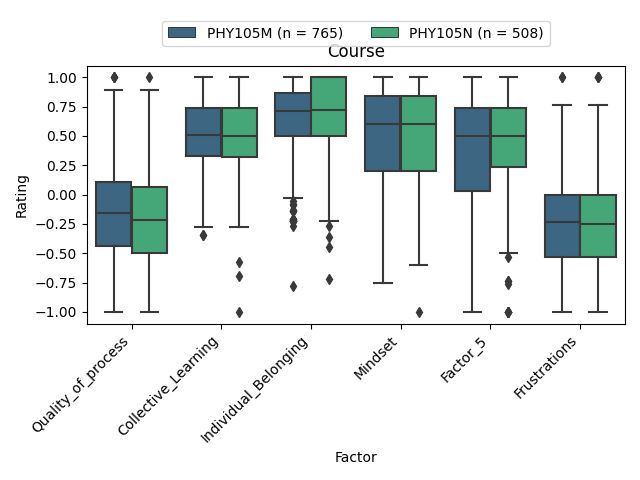
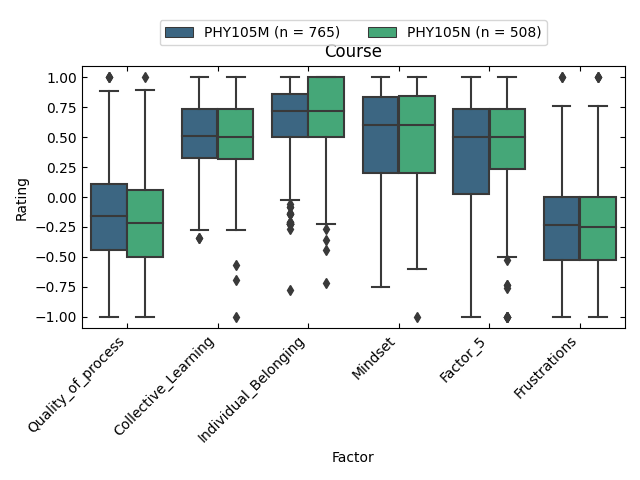
Some QoL changes

diff --git a/SAGE.py b/SAGE.py
@@ -32,7 +32,6 @@ def main():
     my_file = 'SAGEPHY105F22_January3,2023_07.15.csv'
 
     # READ IN DATA FROM SAGE QUALTRICS SURVEY BASED ON THE CSV COLUMN NAMES
-    headers = [*pd.read_csv(my_file, nrows=1)]
     ExcludedHeaders = ['Start Date', 'End Date', 'Response Type', 'IP Address', 'Progress', 'Duration (in seconds)',
     'Finished', 'Recorded Date', 'Response ID', 'Recipient Last Name', 'Recipient First Name',
     'Recipient Email', 'External Data Reference', 'Location Latitude', 'Location Longitude', 'Distribution Channel', 'User Language']
@@ -56,9 +55,9 @@ def main():
     # with warnings.catch_warnings(): # Included because a warning during factor analysis about using a different method of diagnolization is annoying
     #     warnings.simplefilter("ignore")
     #     EFA_alternate(df_norm) # Exploratory factor analysis on questions taken from SAGE ##CFA package doesn't converge, export files to R.
-    # with warnings.catch_warnings(): # Included because a warning during factor analysis about using a different method of diagnolization is annoying
-    #     warnings.simplefilter("ignore")
-    #     Factor_dependences(df_norm) # Performs linear regression and other comparisons for how the demographics affect the factors
+    with warnings.catch_warnings(): # Included because a warning during factor analysis about using a different method of diagnolization is annoying
+        warnings.simplefilter("ignore")
+        Factor_dependences(df_norm) # Performs linear regression and other comparisons for how the demographics affect the factors
 
 # ALLOWS THE USER TO TAB-AUTOCOMPLETE IN COMMANDLINE
 def complete(text, state):
@@ -189,17 +188,6 @@ def Data_statistics(df_norm):
     df_summary['SD+D'] = np.nan
     df_summary['N'] = np.nan
     df_summary['SA+A'] = np.nan
-    # for i in col_list:
-    #     s = df[i].value_counts(normalize=True).sort_index().rename_axis('unique_values').reset_index(name='counts')
-    #     df_summary.at[i,'SD+D'] = s[(s.unique_values.round(1) == 1) | (s.unique_values.round(1) == 2)].sum()['counts']
-    #     df_summary.at[i,'N'] = s[s.unique_values.round(1) == 3].sum()['counts']
-    #     df_summary.at[i,'SA+A'] = s[(s.unique_values.round(1) == 4) | (s.unique_values.round(1) == 5)].sum()['counts']
-
-    # for i in Phys_Int_Cols:
-    #     s = df[i].value_counts(normalize=True).sort_index().rename_axis('unique_values').reset_index(name='counts')
-    #     df_summary.at[i,'SD+D'] = s[(s.unique_values.round(1) == 1) | (s.unique_values.round(1) == 1.8)].sum()['counts']
-    #     df_summary.at[i,'N'] = s[(s.unique_values.round(1) == 2.6) | (s.unique_values.round(1) == 3.4)].sum()['counts']
-    #     df_summary.at[i,'SA+A'] = s[(s.unique_values.round(1) == 4.2) | (s.unique_values.round(1) == 5)].sum()['counts']
 
     for i in col_list:
         s = df[i].value_counts(normalize=True).sort_index().rename_axis('unique_values').reset_index(name='counts')
@@ -216,7 +204,6 @@ def Data_statistics(df_norm):
     df_summary.round(decimals = 4).to_csv('ExportedFiles/SAGE_Stats.csv', encoding = "utf-8", index=True)
 
     total_count = len(df_norm.index)
-    print('Total N:', total_count)
     intervention_count = df_norm.groupby(['Intervention'])['Intervention'].describe()['count']
     course_count = df_norm.groupby(['Course'])['Course'].describe()['count']
     gender_count = df_norm.groupby(['Gender'])['Gender'].describe()['count']
@@ -580,20 +567,21 @@ def Factor_dependences(df_norm):
     ##Condenses demographics
     # Gender -> Male, Female, Other
     df1.insert(df1.columns.get_loc('Gender'), 'Gender_C', 0)
-    df1['Gender_C'] = ['Male' if x == 'Male' else 'Female' if x == 'Female' else 'Prefer not to disclose' if x == 'Prefer not to disclose' else 'Other' for x in df['Gender']]
+    df1['Gender_C'] = ['Male' if x == 'Male' else 'Female' if x == 'Female' else 'Prefer not to disclose' if 'Prefer not' in str(x) else 'Other' for x in df['Gender']]
     df1.drop(columns=['Gender'], axis=1, inplace = True)
 
-    # Raceethnicity -> Wellrepresented (white, asian), underrepresented, both
+    # Raceethnicity -> Wellrepresented (white, asian), underrepresented
     df1.insert(df1.columns.get_loc('Raceethnicity'), 'Raceethnicity_C', 0)
     conditions = [(df1['Raceethnicity'] == 'Asian') | (df1['Raceethnicity'] == 'White') | (df1['Raceethnicity'] == 'Asian,White'),
-                (~df1['Raceethnicity'].str.contains('Asian')) | (~df1['Raceethnicity'].str.contains('White')) | (~df1['Raceethnicity'].str.contains('Prefer not')), (df1['Raceethnicity'].str.contains('Prefer not'))]
+                (~df1['Raceethnicity'].str.contains('Asian')) | (~df1['Raceethnicity'].str.contains('White')) | (~df1['Raceethnicity'].str.contains('Prefer not')),
+                (df1['Raceethnicity'].str.contains('Prefer not'))]
     choices = ['Wellrepresented','Underrepresented','Prefer not to disclose']
     df1['Raceethnicity_C'] = np.select(conditions, choices, default='Mixed')
     df1.drop(columns=['Raceethnicity'], axis=1, inplace = True)
 
     # Edcuation -> 1st gen, not 1st gen
     df1.insert(df1.columns.get_loc('Education'), 'Education_C', 0)
-    df1['Education_C'] = ['1stGen' if (x == 'Other') | (x == 'High school') | (x == 'Some college but no degree') | (x == "Associate's or technical degree") else 'Prefer not to answer' if x == 'Prefer not to answer' else 'Not1stGen' for x in df['Education']]
+    df1['Education_C'] = ['1stGen' if (x == 'Other') | (x == 'High school') | (x == 'Some college but no degree') | (x == "Associate's or technical degree") else 'Prefer not to answer' if 'Prefer not' in str(x) else 'Not1stGen' for x in df['Education']]
     df1.drop(columns=['Education'], axis=1, inplace = True)
 
     # Plot (box and whisker) averages for each factor by course
@@ -609,6 +597,7 @@ def Factor_dependences(df_norm):
     colors = cmap(np.linspace(0,1,4))
     palette = {course_list[0]: colors[1], course_list[1]: colors[2]}
     hue_order = [course_list[0],course_list[1]]
+    fig, ax = plt.subplots()
     g = sns.boxplot(data=df_bnw.melt(id_vars=['Course'], value_vars=fs.columns, var_name='Rating', value_name='Factor'), 
                     x='Rating', y='Factor', hue='Course', hue_order=hue_order, palette=palette)
     plt.title('Course')
@@ -618,6 +607,7 @@ def Factor_dependences(df_norm):
     L = plt.legend(loc='lower center', bbox_to_anchor=(0.5, 1.05), ncols=3, fancybox=True, shadow=False)
     for t, l in zip(L.get_texts(), course_count_list):
         t.set_text(l)
+    ax.tick_params(axis='both', direction='in', top=True, right=True)
     plt.tight_layout()
     save_fig(g,'factor_ratings_course')
     plt.clf()
@@ -635,6 +625,7 @@ def Factor_dependences(df_norm):
     colors = cmap(np.linspace(0,1,4))
     palette ={intervention_list[0]: colors[1], intervention_list[1]: colors[2], intervention_list[2]: colors[3]}
     hue_order = [intervention_list[0],intervention_list[1],intervention_list[2]]
+    fig, ax = plt.subplots()
     g = sns.boxplot(data=df_bnw.melt(id_vars=['Intervention'], value_vars=fs.columns, var_name='Rating', value_name='Factor'), 
                     x='Rating', y='Factor', hue='Intervention', hue_order=hue_order, palette=palette)
     plt.title('Intervention')
@@ -644,6 +635,7 @@ def Factor_dependences(df_norm):
     L = plt.legend(loc='lower center', bbox_to_anchor=(0.5, 1.05), ncols=2, fancybox=True, shadow=False)
     for t, l in zip(L.get_texts(), intervention_count_list):
         t.set_text(l)
+    ax.tick_params(axis='both', direction='in', top=True, right=True)
     plt.tight_layout()
     save_fig(g,'factor_ratings_intervention')
     plt.clf()
@@ -662,6 +654,7 @@ def Factor_dependences(df_norm):
     colors = cmap(np.linspace(0,1,4))
     palette ={gender_list[0]: colors[1], gender_list[1]: colors[2], gender_list[2]: colors[3]}
     hue_order = [gender_list[0],gender_list[1], gender_list[2]]
+    fig, ax = plt.subplots()
     g = sns.boxplot(data=df_bnw.melt(id_vars=['Gender_C'], value_vars=fs.columns, var_name='Rating', value_name='Factor'), 
                     x='Rating', y='Factor', hue='Gender_C', hue_order=hue_order, palette=palette)
     plt.title('Gender')
@@ -671,6 +664,7 @@ def Factor_dependences(df_norm):
     L = plt.legend(loc='lower center', bbox_to_anchor=(0.5, 1.05), ncols=3, fancybox=True, shadow=False)
     for t, l in zip(L.get_texts(), gender_count_list):
         t.set_text(l)
+    ax.tick_params(axis='both', direction='in', top=True, right=True)
     plt.tight_layout()
     save_fig(g,'factor_ratings_gender')
     plt.clf()
@@ -687,9 +681,9 @@ def Factor_dependences(df_norm):
         raceethnicity_count_list.append(string)
     cmap = cm.get_cmap('viridis')
     colors = cmap(np.linspace(0,1,4))
-    print(raceethnicity_list)
     palette ={raceethnicity_list[0]: colors[1], raceethnicity_list[1]: colors[2]}
     hue_order = [raceethnicity_list[0],raceethnicity_list[1]]
+    fig, ax = plt.subplots()
     g = sns.boxplot(data=df_bnw.melt(id_vars=['Raceethnicity_C'], value_vars=fs.columns, var_name='Rating', value_name='Factor'), 
                     x='Rating', y='Factor', hue='Raceethnicity_C', hue_order=hue_order, palette=palette)
     plt.title('Race/ethnicity')
@@ -699,6 +693,7 @@ def Factor_dependences(df_norm):
     L = plt.legend(loc='lower center', bbox_to_anchor=(0.5, 1.05), ncols=2, fancybox=True, shadow=False)
     for t, l in zip(L.get_texts(), raceethnicity_count_list):
         t.set_text(l)
+    ax.tick_params(axis='both', direction='in', top=True, right=True)
     plt.tight_layout()
     save_fig(g,'factor_ratings_racethnicity')
     plt.clf()
@@ -717,6 +712,7 @@ def Factor_dependences(df_norm):
     colors = cmap(np.linspace(0,1,4))
     palette ={education_list[0]: colors[1], education_list[1]: colors[2]}
     hue_order = [education_list[0],education_list[1]]
+    fig, ax = plt.subplots()
     g = sns.boxplot(data=df_bnw.melt(id_vars=['Education_C'], value_vars=fs.columns, var_name='Rating', value_name='Factor'), 
                     x='Rating', y='Factor', hue='Education_C', hue_order=hue_order, palette=palette)
     plt.title('Education')
@@ -726,6 +722,7 @@ def Factor_dependences(df_norm):
     L = plt.legend(loc='lower center', bbox_to_anchor=(0.5, 1.05), ncols=3, fancybox=True, shadow=False)
     for t, l in zip(L.get_texts(), education_count_list):
         t.set_text(l)
+    ax.tick_params(axis='both', direction='in', top=True, right=True)
     plt.tight_layout()
     save_fig(g,'factor_ratings_education')
     plt.clf()
@@ -735,7 +732,7 @@ def Factor_dependences(df_norm):
         # Y = df1[i]
         # X = df1['Intervention', 'Course', 'Gender_C', 'Raceethnicity_C', 'Education_C']
         # y, X = dmatrices((str(i) + '~ Intervention + Course + Gender_C + Raceethnicity_C + Education_C'), data=df1, return_type='dataframe')
-        # print(y, X)    
+        # print(y, X)
         res = smf.ols((str(i) + "~ C(Intervention, Treatment(reference='Control')) + C(Course) + C(Gender_C, Treatment(reference='Female')) + C(Raceethnicity_C, Treatment(reference='Wellrepresented')) + C(Education_C, Treatment(reference='Not1stGen'))"), data=df1).fit()
         print(res.summary())#.as_latex())
 
